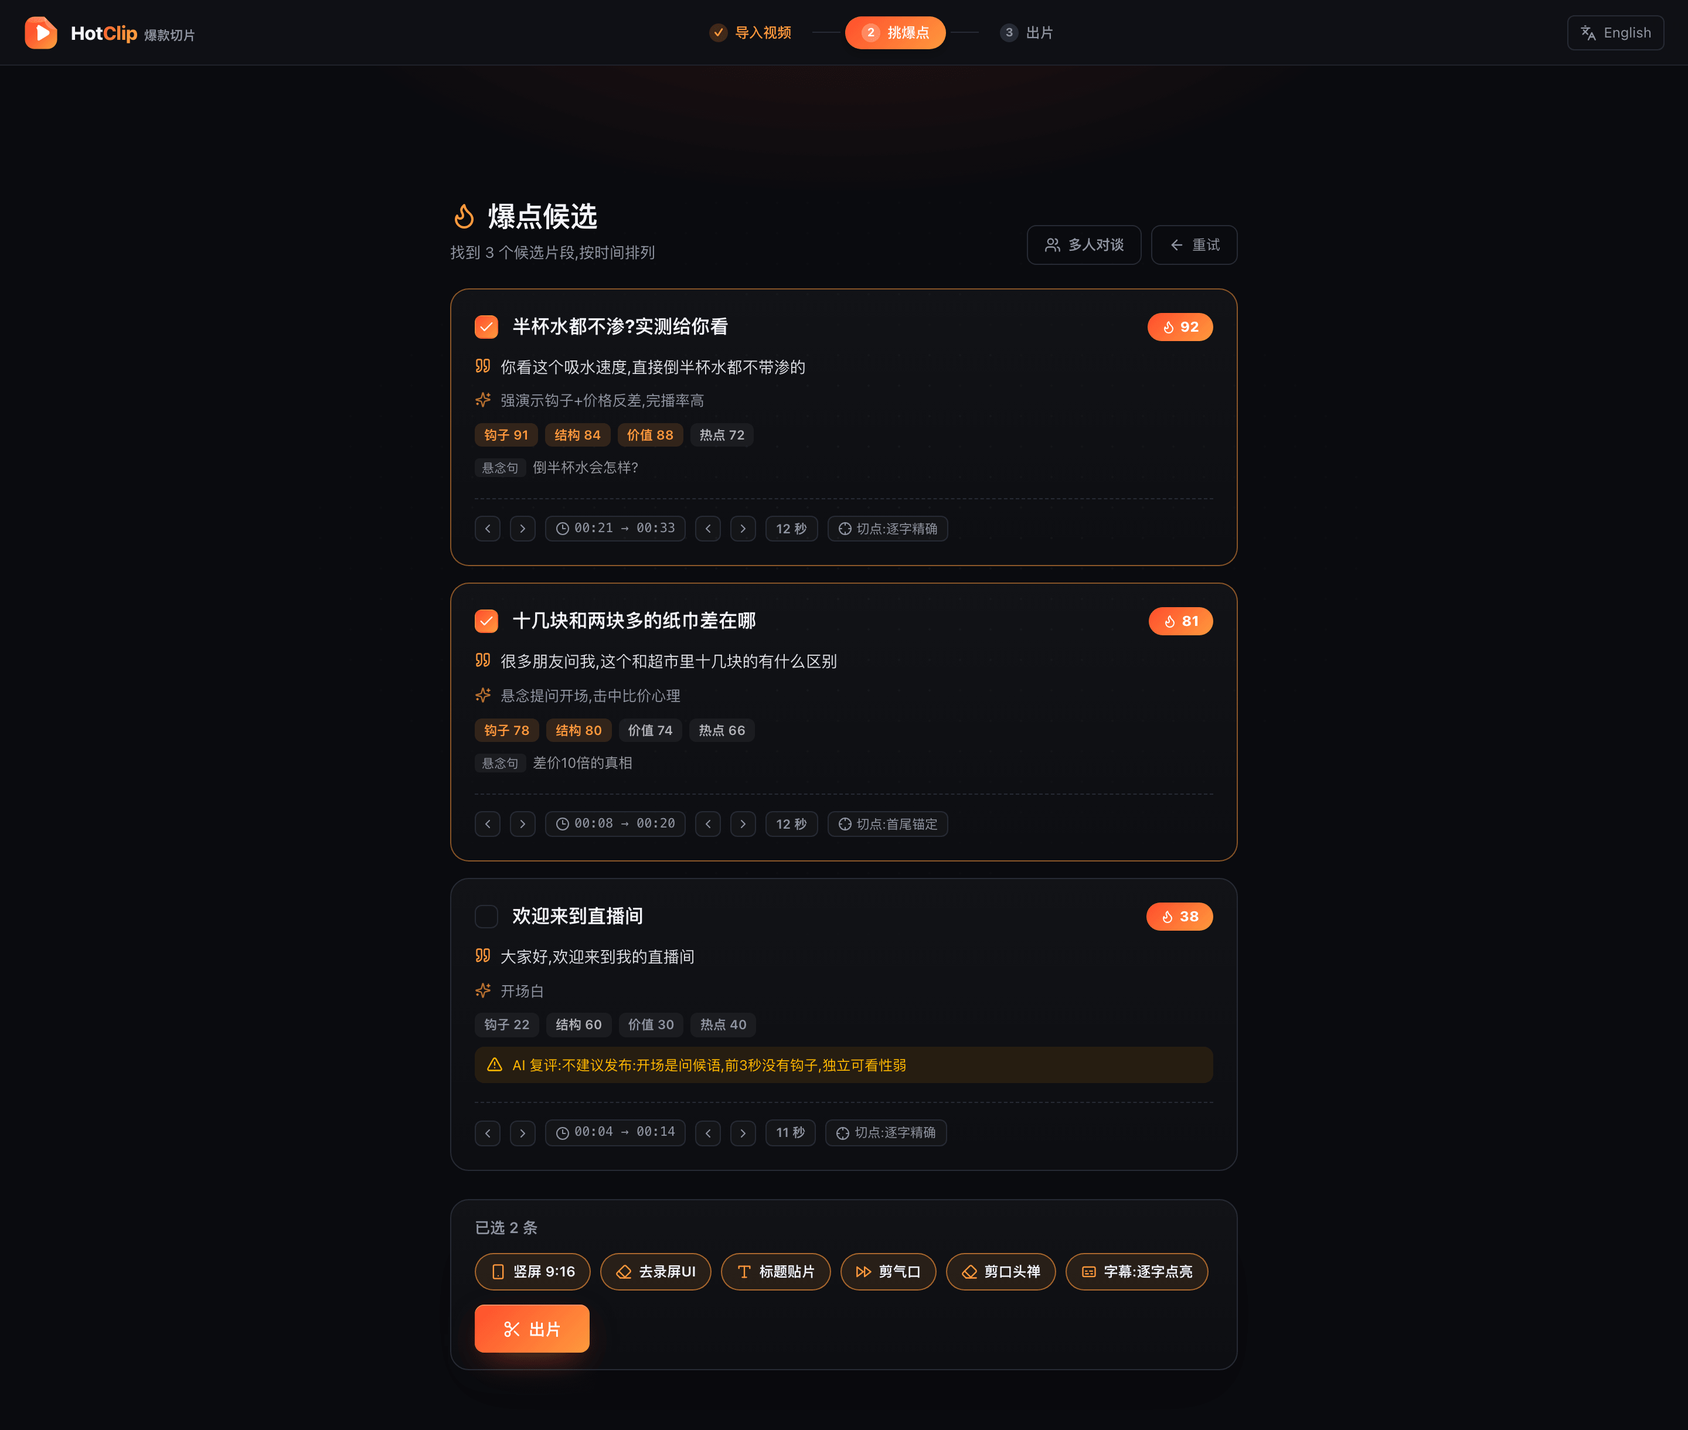
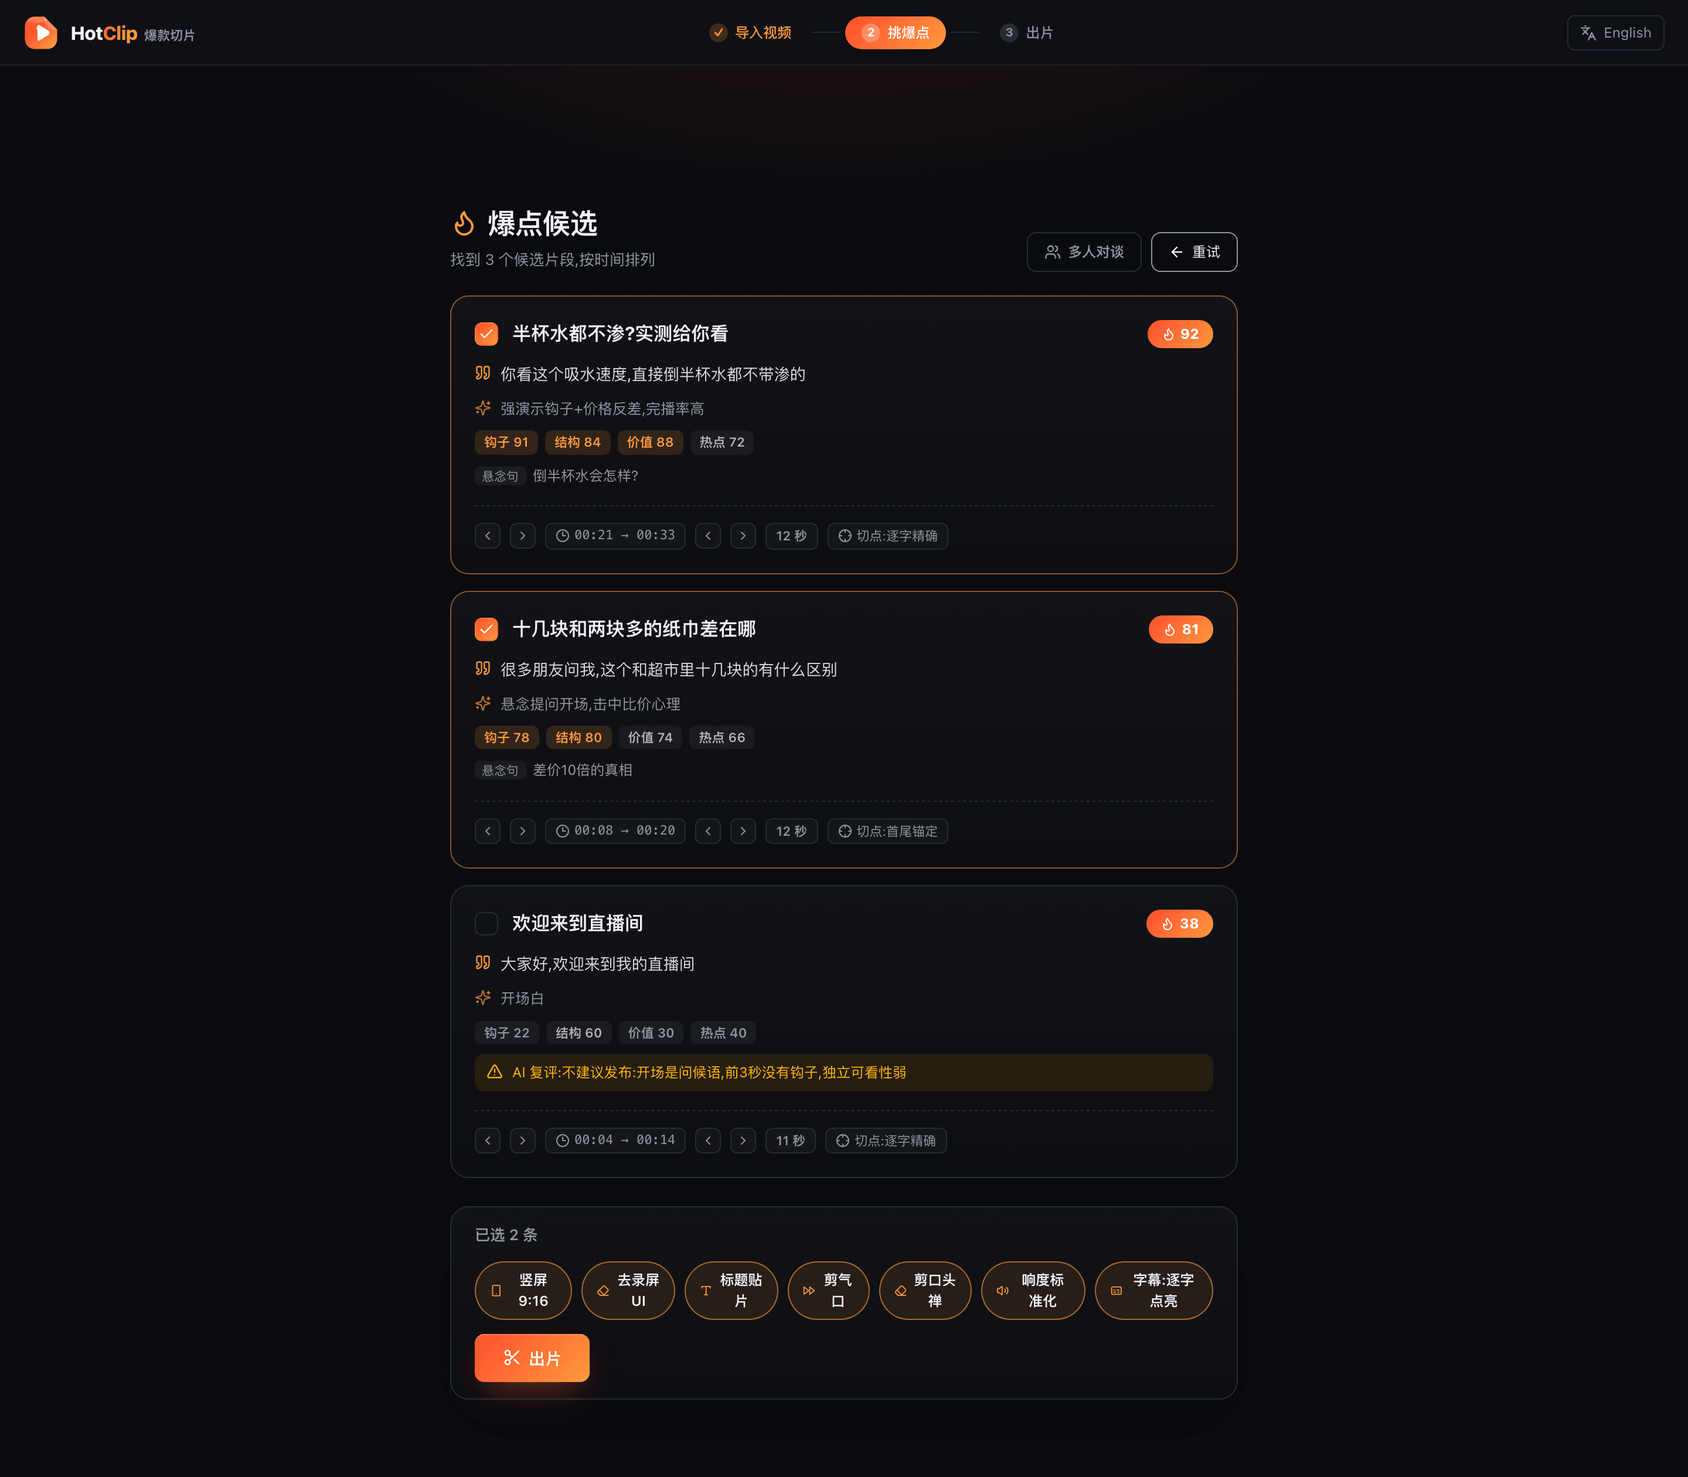
feat(audio): 响度标准化——每条切片按 EBU R128 归一到 -14 LUFS 社媒标准 / loudness normalization to the -14 LUFS social target (plain & jump-cut paths, real-ffmpeg E2E: -14.01/-13.96 LUFS)

diff --git a/src/renderer/src/components/HighlightsView.tsx b/src/renderer/src/components/HighlightsView.tsx
@@ -21,6 +21,7 @@ import {
   LuUsers,
   LuTriangleAlert,
   LuType,
+  LuVolume2,
   LuChevronLeft,
   LuChevronRight,
 } from "react-icons/lu";
@@ -67,7 +68,7 @@ export function HighlightsView({
   /** Source path — lets the backend add audiovisual-signal evidence. */
   filePath?: string;
   onBack: () => void;
-  onExport?: (clips: HighlightCandidate[], options: Pick<ExportOptions, "vertical" | "captionStyle" | "jumpCut" | "cleanFillers" | "trimUi" | "titleCard">) => void;
+  onExport?: (clips: HighlightCandidate[], options: Pick<ExportOptions, "vertical" | "captionStyle" | "jumpCut" | "cleanFillers" | "trimUi" | "titleCard" | "normalizeLoudness">) => void;
   /** Lift the diarization-labeled transcript up so export colors captions by speaker. */
   onTranscriptLabeled?: (t: Transcript) => void;
   /** 托管 mode: export every candidate with default render options as soon as they land. */
@@ -90,6 +91,7 @@ export function HighlightsView({
   const [trimUi, setTrimUi] = useState(true);
   const [diarize, setDiarize] = useState(false);
   const [titleCard, setTitleCard] = useState(true);
+  const [normalizeLoudness, setNormalizeLoudness] = useState(true);
   const startedRef = useRef(false);
 
   const run = useCallback(async (useDiarize: boolean): Promise<void> => {
@@ -152,7 +154,7 @@ export function HighlightsView({
     const publishable = candidates?.filter((c) => c.recommended) ?? [];
     if (auto && onExport && publishable.length > 0 && !autoExported.current) {
       autoExported.current = true;
-      onExport(publishable, { vertical: true, captionStyle: "karaoke", jumpCut: true, cleanFillers: true, trimUi: true, titleCard: true });
+      onExport(publishable, { vertical: true, captionStyle: "karaoke", jumpCut: true, cleanFillers: true, trimUi: true, titleCard: true, normalizeLoudness: true });
     }
   }, [auto, candidates, onExport]);
 
@@ -478,6 +480,17 @@ export function HighlightsView({
                 </button>
                 <button
                   type="button"
+                  title={t("optLoudnessHint")}
+                  onClick={() => setNormalizeLoudness(!normalizeLoudness)}
+                  className={`inline-flex items-center gap-1.5 rounded-full border px-3 py-1.5 text-[12px] font-semibold transition-colors ${
+                    normalizeLoudness ? "border-ember/60 bg-ember/10 text-fg" : "border-line text-mut hover:border-mut"
+                  }`}
+                >
+                  <LuVolume2 className={`h-3.5 w-3.5 ${normalizeLoudness ? "text-ember" : ""}`} />
+                  {t("optLoudness")}
+                </button>
+                <button
+                  type="button"
                   title={t("captionStyleHint")}
                   onClick={() =>
                     setCaptionStyle(CAPTION_CYCLE[(CAPTION_CYCLE.indexOf(captionStyle) + 1) % CAPTION_CYCLE.length])
@@ -494,7 +507,7 @@ export function HighlightsView({
                 type="button"
                 disabled={selected.size === 0}
                 onClick={() =>
-                  onExport(candidates.filter((c) => selected.has(c.id)), { vertical, captionStyle, jumpCut, cleanFillers, trimUi, titleCard })
+                  onExport(candidates.filter((c) => selected.has(c.id)), { vertical, captionStyle, jumpCut, cleanFillers, trimUi, titleCard, normalizeLoudness })
                 }
                 className="btn-flame inline-flex items-center gap-1.5 rounded-lg px-6 py-2.5 text-[14px] font-bold text-white disabled:opacity-40"
               >

diff --git a/src/core/cut.ts b/src/core/cut.ts
@@ -16,6 +16,21 @@ import { toFfmpegTime } from "./time";
 
 const execFileAsync = promisify(execFile);
 
+/**
+ * Social loudness target (EBU R128): -14 LUFS integrated, -1.5 dBTP true-peak
+ * ceiling — the level TikTok / Reels / Shorts / 抖音 normalize playback to, so
+ * a batch of clips lands at one consistent, platform-friendly volume instead of
+ * the source's raw (often too quiet) level.
+ *
+ * loudnorm runs its analysis at 192kHz internally and would hand that rate to
+ * the AAC encoder (which caps at 96kHz). We pin the output rate with the `-ar`
+ * output option (see LOUDNORM_OUT_RATE) rather than an in-graph aresample —
+ * output-side resampling negotiates the channel layout, an in-graph one does not.
+ */
+export const LOUDNORM_FILTER = "loudnorm=I=-14:TP=-1.5:LRA=11";
+/** Output sample rate forced alongside loudnorm to cap its 192kHz output. */
+export const LOUDNORM_OUT_RATE = "48000";
+
 export type CutMode = "accurate" | "copy";
 
 export interface CutOptions {
@@ -37,6 +52,8 @@ export interface CutOptions {
   subtitlePath?: string;
   /** Directory holding bundled fonts for libass (subtitles filter fontsdir). */
   fontsDir?: string;
+  /** Normalize output audio to the -14 LUFS social target (EBU R128 loudnorm). */
+  normalizeLoudness?: boolean;
 }
 
 /**
@@ -89,8 +106,9 @@ export function buildCutArgs(
     throw new Error(`invalid cut range: start=${startSec} end=${endSec}`);
   }
   const filters = buildVideoFilters(options);
-  // Any video filter forces a re-encode — silently upgrade copy → accurate.
-  const mode = filters.length > 0 ? "accurate" : (options.mode ?? "accurate");
+  // Any video filter — or loudness normalization (an audio filter) — forces a
+  // re-encode, so silently upgrade copy → accurate.
+  const mode = filters.length > 0 || options.normalizeLoudness ? "accurate" : (options.mode ?? "accurate");
   const start = Math.max(0, startSec);
   const duration = endSec - start;
 
@@ -113,6 +131,7 @@ export function buildCutArgs(
     "-preset", preset,
     "-crf", crf,
     "-pix_fmt", "yuv420p",
+    ...(options.normalizeLoudness ? ["-af", LOUDNORM_FILTER, "-ar", LOUDNORM_OUT_RATE] : []),
     "-c:a", "aac",
     "-b:a", "192k",
     "-movflags", "+faststart",
@@ -149,8 +168,12 @@ export function buildJumpCutArgs(
   });
   const post = buildVideoFilters(options);
   const concatOut = post.length > 0 ? "[vc]" : "[vout]";
-  parts.push(`${labels.join("")}concat=n=${segments.length}:v=1:a=1${concatOut}[aout]`);
+  // Normalize the *spliced* audio (loudnorm must see the final concatenated
+  // stream, not each segment) — concat into a raw label, then loudnorm → [aout].
+  const audioOut = options.normalizeLoudness ? "[araw]" : "[aout]";
+  parts.push(`${labels.join("")}concat=n=${segments.length}:v=1:a=1${concatOut}${audioOut}`);
   if (post.length > 0) parts.push(`[vc]${post.join(",")}[vout]`);
+  if (options.normalizeLoudness) parts.push(`[araw]${LOUDNORM_FILTER}[aout]`);
 
   const crf = Number.isFinite(options.crf) ? String(options.crf) : "18";
   const preset = options.preset ?? "veryfast";
@@ -166,6 +189,7 @@ export function buildJumpCutArgs(
     "-preset", preset,
     "-crf", crf,
     "-pix_fmt", "yuv420p",
+    ...(options.normalizeLoudness ? ["-ar", LOUDNORM_OUT_RATE] : []),
     "-c:a", "aac",
     "-b:a", "192k",
     "-movflags", "+faststart",

diff --git a/src/core/__tests__/cut.test.ts b/src/core/__tests__/cut.test.ts
@@ -1,5 +1,5 @@
 import { describe, it, expect } from "vitest";
-import { buildCutArgs, buildVideoFilters, escapeFilterPath } from "../cut";
+import { buildCutArgs, buildJumpCutArgs, buildVideoFilters, escapeFilterPath, LOUDNORM_FILTER, LOUDNORM_OUT_RATE } from "../cut";
 
 describe("buildCutArgs", () => {
   it("accurate mode: fast seek before -i, re-encode, faststart", () => {
@@ -67,5 +67,57 @@ describe("buildCutArgs", () => {
 
   it("escapes windows drive colons and backslashes for the filter graph", () => {
     expect(escapeFilterPath("C:\\Users\\我\\a.ass")).toBe("C\\:/Users/我/a.ass");
+  });
+});
+
+describe("loudness normalization", () => {
+  it("targets -14 LUFS; the 192kHz leak is capped by the -ar output option, not an in-graph resampler", () => {
+    expect(LOUDNORM_FILTER).toContain("loudnorm=I=-14");
+    expect(LOUDNORM_FILTER).toContain("TP=-1.5");
+    // in-graph aresample breaks channel-layout negotiation with the AAC encoder
+    expect(LOUDNORM_FILTER).not.toContain("aresample");
+    expect(LOUDNORM_OUT_RATE).toBe("48000");
+  });
+
+  it("plain cut: inserts -af loudnorm + -ar before the audio codec when enabled", () => {
+    const args = buildCutArgs("/v/in.mp4", "/v/out.mp4", 0, 5, { normalizeLoudness: true });
+    const af = args.indexOf("-af");
+    expect(af).toBeGreaterThan(-1);
+    expect(args[af + 1]).toBe(LOUDNORM_FILTER);
+    expect(args[args.indexOf("-ar") + 1]).toBe(LOUDNORM_OUT_RATE);
+    expect(af).toBeLessThan(args.indexOf("-c:a")); // filter precedes the encoder
+  });
+
+  it("plain cut: no audio filter when disabled", () => {
+    const args = buildCutArgs("/v/in.mp4", "/v/out.mp4", 0, 5);
+    expect(args).not.toContain("-af");
+    expect(args.join(" ")).not.toContain("loudnorm");
+  });
+
+  it("plain cut: loudnorm alone forces accurate mode even if copy requested", () => {
+    const args = buildCutArgs("/v/in.mp4", "/v/out.mp4", 0, 5, { mode: "copy", normalizeLoudness: true });
+    expect(args).toContain("libx264");
+    expect(args).toContain("-af");
+    expect(args).not.toContain("make_zero");
+  });
+
+  it("jump cut: normalizes the spliced stream (concat → [araw] → loudnorm → [aout])", () => {
+    const segs = [{ startSec: 10, endSec: 12 }, { startSec: 15, endSec: 17 }];
+    const args = buildJumpCutArgs("/v/in.mp4", "/v/out.mp4", 10, segs, { normalizeLoudness: true });
+    const fc = args[args.indexOf("-filter_complex") + 1];
+    expect(fc).toContain(":a=1[vout][araw]"); // concat audio → raw label
+    expect(fc).toContain(`[araw]${LOUDNORM_FILTER}[aout]`); // then normalize
+    expect(args[args.indexOf("-map") + 1]).toBe("[vout]");
+    expect(args).toContain("[aout]"); // final audio map unchanged
+    expect(args[args.indexOf("-ar") + 1]).toBe(LOUDNORM_OUT_RATE); // cap the 192kHz output
+  });
+
+  it("jump cut: concat maps straight to [aout] when disabled", () => {
+    const segs = [{ startSec: 10, endSec: 12 }, { startSec: 15, endSec: 17 }];
+    const fc = buildJumpCutArgs("/v/in.mp4", "/v/out.mp4", 10, segs)[
+      buildJumpCutArgs("/v/in.mp4", "/v/out.mp4", 10, segs).indexOf("-filter_complex") + 1
+    ];
+    expect(fc).toContain(":a=1[vout][aout]");
+    expect(fc).not.toContain("loudnorm");
   });
 });

diff --git a/src/core/export.ts b/src/core/export.ts
@@ -74,6 +74,8 @@ export interface ClipRenderOutcome {
   edit: { splices: number; keptSec: number; removedSec: number; cutRatio: number } | null;
   /** Number of filler/stutter words removed. */
   fillersRemoved: number;
+  /** True when audio was matched to the -14 LUFS social loudness target. */
+  loudnessNormalized: boolean;
 }
 
 export interface ExportRenderOptions {
@@ -97,6 +99,8 @@ export interface ExportRenderOptions {
   titleCard?: boolean;
   /** Bundled-font directory handed to libass so CJK renders identically everywhere. */
   fontsDir?: string;
+  /** Match audio to the -14 LUFS social loudness target (EBU R128 loudnorm). */
+  normalizeLoudness?: boolean;
 }
 
 export interface ExportedClip {
@@ -252,12 +256,13 @@ export async function exportClips(
       // Web captions: cut to a base file first, then composite words on top.
       const cutTarget = webStyle ? outPath.replace(/\.mp4$/, ".base.mp4") : outPath;
       const cutOptions = trackPlan
-        ? { trackPlan, subtitlePath, fontsDir: subtitlePath ? options.fontsDir : undefined }
+        ? { trackPlan, subtitlePath, fontsDir: subtitlePath ? options.fontsDir : undefined, normalizeLoudness: options.normalizeLoudness }
         : {
             uiCrop,
             vertical: options.vertical,
             subtitlePath,
             fontsDir: subtitlePath ? options.fontsDir : undefined,
+            normalizeLoudness: options.normalizeLoudness,
           };
       if (plan && plan.segments.length > 1) {
         await cutJumpClip(inputPath, cutTarget, clip.startSec, plan.segments, cutOptions);
@@ -331,6 +336,7 @@ export async function exportClips(
         reframe: options.vertical ? (trackPlan ? "face-track" : "center-crop") : "none",
         edit: summarizeEdit(origDur, plan),
         fillersRemoved: fillerHits.length,
+        loudnessNormalized: Boolean(options.normalizeLoudness),
       });
       onProgress?.({ current: i + 1, total: clips.length, clipId: clip.id, stage: "done" });
     }
@@ -346,6 +352,7 @@ export async function exportClips(
         cleanFillers: Boolean(options.cleanFillers),
         trimUi: Boolean(options.trimUi),
         titleCard: Boolean(options.titleCard),
+        normalizeLoudness: Boolean(options.normalizeLoudness),
       },
       clips: results.map((r) => {
         const spec = clips.find((c) => c.id === r.id);

diff --git a/src/renderer/src/i18n/locales/en.ts b/src/renderer/src/i18n/locales/en.ts
@@ -113,6 +113,8 @@ export const en = {
     optJumpCutHint: "Splice out pauses between speech — hand-edited rhythm, automatically",
     optCleanFillers: "Cut fillers",
     optCleanFillersHint: "Remove um/uh hesitations and stutter repeats; removals are listed in clips.json",
+    optLoudness: "Match loudness",
+    optLoudnessHint: "Normalize audio to the -14 LUFS social target (TikTok/Reels/Shorts) so a batch of clips plays at one consistent, not-too-quiet volume",
     optDiarize: "Multi-speaker",
     optDiarizeHint: "Label who is speaking so the AI picks per-speaker clips and avoids cross-speaker quote-mining; captions color by speaker (first use downloads ~47MB speaker models)",
     optTitleCard: "Title card",

diff --git a/src/renderer/src/i18n/locales/zh.ts b/src/renderer/src/i18n/locales/zh.ts
@@ -108,6 +108,8 @@ export const zh = {
     optJumpCutHint: "自动剪掉说话间的停顿静音,成片节奏像人剪的",
     optCleanFillers: "剪口头禅",
     optCleanFillersHint: "自动剪掉 嗯/呃 等语气词和结巴重复,剪了什么会列进 clips.json",
+    optLoudness: "响度标准化",
+    optLoudnessHint: "把音量统一到 -14 LUFS 社媒标准(抖音/TikTok/视频号 同款),整批切片音量一致、不再忽大忽小或太小声",
     optDiarize: "多人对谈",
     optDiarizeHint: "标注谁在说话:让 AI 按说话人挑段、避免把两个人的话拼成断章取义,字幕也按人上色(首次需下载约47MB说话人模型)",
     optTitleCard: "标题贴片",

diff --git a/src/renderer/src/App.tsx b/src/renderer/src/App.tsx
@@ -70,7 +70,7 @@ export default function App(): React.JSX.Element {
   /** Clips + render toggles chosen for export (moves the wizard to step 2). */
   const [exporting, setExporting] = useState<{
     clips: HighlightCandidate[];
-    options: Pick<ExportOptions, "vertical" | "captionStyle" | "jumpCut" | "cleanFillers" | "trimUi" | "titleCard">;
+    options: Pick<ExportOptions, "vertical" | "captionStyle" | "jumpCut" | "cleanFillers" | "trimUi" | "titleCard" | "normalizeLoudness">;
   } | null>(null);
 
   const restart = (): void => {

diff --git a/src/renderer/src/components/ExportView.tsx b/src/renderer/src/components/ExportView.tsx
@@ -30,7 +30,7 @@ export function ExportView({
 }: {
   filePath: string;
   clips: HighlightCandidate[];
-  options: Pick<ExportOptions, "vertical" | "captionStyle" | "jumpCut" | "cleanFillers" | "trimUi" | "titleCard">;
+  options: Pick<ExportOptions, "vertical" | "captionStyle" | "jumpCut" | "cleanFillers" | "trimUi" | "titleCard" | "normalizeLoudness">;
   transcript: Transcript;
   onBack: () => void;
   onRestart: () => void;

diff --git a/src/shared/api-types.ts b/src/shared/api-types.ts
@@ -129,6 +129,8 @@ export interface ExportOptions {
   trimUi: boolean;
   /** Burn each clip's title into the top safe zone. */
   titleCard: boolean;
+  /** Match audio to the -14 LUFS social loudness target (EBU R128). */
+  normalizeLoudness?: boolean;
   /** Needed for captions/jump-cut: source of word-level timestamps. */
   transcript?: Transcript;
 }

diff --git a/src/main/index.ts b/src/main/index.ts
@@ -259,6 +259,7 @@ ipcMain.handle("hotclip:export-clips", async (event, filePath: unknown, clips: u
       cleanFillers,
       trimUi: Boolean(opts.trimUi),
       titleCard: Boolean(opts.titleCard),
+      normalizeLoudness: Boolean(opts.normalizeLoudness),
       faceTrack: true,
       modelsRoot: modelsRoot(),
       fontsDir,

diff --git a/README.md b/README.md
@@ -45,7 +45,7 @@
 | AI 找爆点(LLM 只引原文不猜时间戳,逐字反向对齐 → 切点精确到词,四维复评打分) | ✅ 已完成 |
 | 出片(帧精确切割 + 竖屏 9:16 重构 + 卡拉OK逐字字幕烧录) | ✅ 已完成 |
 | 人脸跟随智能取景(镜头级三模式,无人脸自动回退居中裁剪) | ✅ 已完成 |
-| 说话人分离 · 气泡特效字幕 · 气口跳剪 · 剪口头禅 · 转写缓存 · 一键全托管 | ✅ 已完成 |
+| 说话人分离 · 气泡特效字幕 · 气口跳剪 · 剪口头禅 · 响度标准化 · 转写缓存 · 一键全托管 | ✅ 已完成 |
 | 安装包发布(Windows exe + 绿色版 zip + macOS dmg) | ✅ [v0.4.3 已发布](https://github.com/xixihhhh/hotclip/releases/latest) |
 | 平台规格预设 · 剪映草稿导出 · Web 平台版 · 更多界面语言 | 🗺 规划中 |
 
@@ -99,6 +99,7 @@ Every commercial clipper meters your source minutes, forces cloud uploads, or bo
 - **去录屏UI**:手机直播录屏的状态栏/固定UI/上下黑边,用时域方差自动检测并裁除(静止的是UI,会动的是内容),检测不到就不裁
 - **气口跳剪**:自动剪掉说话间的停顿静音并拼接,字幕时间轴同步重映射——成片节奏像人剪的,不是机切;剪不剪由「无词 **且** 声学静默」双重判定,笑声、掌声、BGM 高潮这些没有台词但有情绪的瞬间不会被误删
 - **剪口头禅**:嗯/呃 等语气词和结巴重复自动剪除(词表刻意保守,「然后/那个/句尾的啊」这类真词不动);剪了什么逐条列进 clips.json,你始终知道 AI 动了哪里
+- **响度标准化**:每条切片按 EBU R128 归一到 **-14 LUFS 社媒标准**(抖音/TikTok/Reels/视频号 播放同款响度),整批出片音量一致、不再有的太小声有的爆音——平台不会因忽大忽小压流量,观众也不用一直调音量;跳剪拼接后的成片按拼接后的音轨算响度,不是分段各算
 - **封面图 + 元数据导出**:每条切片附带封面 JPG(带字幕和标题贴片,平台直传)和 clips.json(标题/钩子/评分/评审意见/时间码/关键词),矩阵运营直接接 CMS;还带**处理产出回执**(有效字幕样式、取景是 face-track 还是回退中心裁、跳剪剪除比与拼接段数、剪了几个口头禅)——AI 到底对每条片子做了什么,一目了然可审计
 - **画面声音证据**:响度峰值与镜头切换密度本地采集,注入爆点判断——不再纯文本盲选
 - **转写结果本地缓存**:转写是整条流水线最慢的一步;结果按(文件+引擎)缓存在本地,同一个文件下次再开、想换设置多切几条,**跳过重转写秒进挑爆点**(云引擎还顺带省一次 API 费),文件改动或换引擎自动失效
